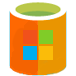
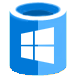
color changes for png

diff --git a/django_project/templates/index.html b/django_project/templates/index.html
@@ -401,7 +401,7 @@
       <div class="row">
         <div class="col-sm-12">
           <h1 class="header-title">MY PORTFOLIO</h1>
-          <h2 class="subtitle">Engineering professionally since 2010</h2>
+          <h2 class="subtitle">Engineering since 2010</h2>
           <hr class="hr-portfolio">
         </div>
       </div>
